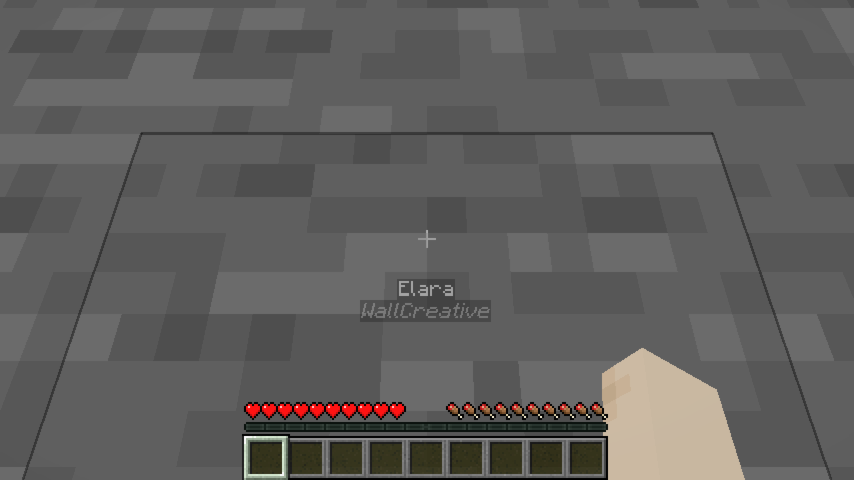
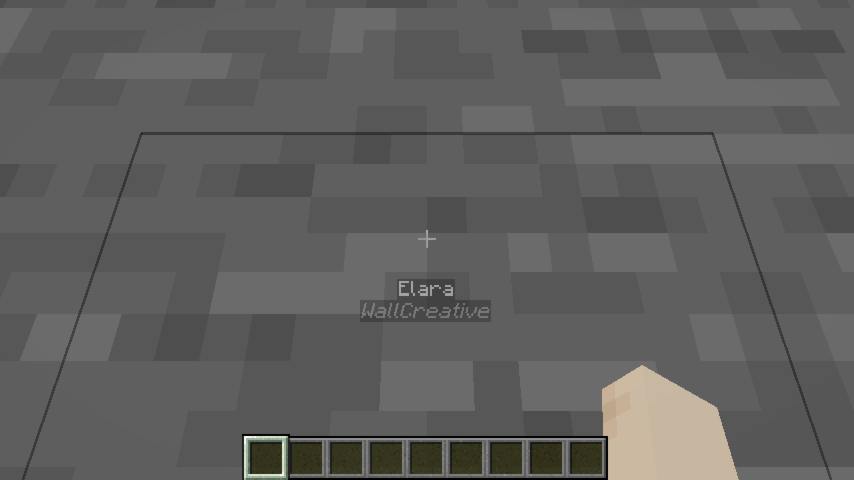
🐛 Corriger le mode Creative dans le test de nametag
Utiliser changeGameMode() côté serveur + waitFor(abilities.creativeMode)
pour s'assurer que le HUD et les abilities sont correctement mis à jour
côté client avant le screenshot, plutôt que de setter creativeMode
directement (qui ne mettait pas à jour le HUD).

Changed region(s): [[0.274, 0.8125, 0.7307, 0.9062], [0.7002, 0.7188, 0.8525, 0.9062], [0.8525, 0.9062, 0.8829, 1.0]]

diff --git a/src/client/java/net/minecraftfr/roleplaychat/test/client/NameplateOcclusionDisplayTest.java b/src/client/java/net/minecraftfr/roleplaychat/test/client/NameplateOcclusionDisplayTest.java
@@ -14,6 +14,7 @@ import net.minecraft.network.packet.c2s.common.SyncedClientOptions;
 import net.minecraft.server.network.ConnectedClientData;
 import net.minecraft.server.network.ServerPlayerEntity;
 import net.minecraft.util.math.BlockPos;
+import net.minecraft.world.GameMode;
 import net.minecraft.world.GameRules;
 import net.minecraftfr.roleplaychat.nameplate.RpNameClientCache;
 
@@ -125,10 +126,16 @@ public class NameplateOcclusionDisplayTest implements FabricClientGameTest {
                 mock.setPitch(0.0f);
             });
 
-            context.waitTicks(20);
-
-            // Simuler le mode Creative côté client directement
-            context.runOnClient(mc -> mc.player.getAbilities().creativeMode = true);
+            // Passer en Creative via le serveur pour que le HUD et les abilities soient corrects
+            // Les mock players ont des UUIDs cafebabe-*, le joueur local a un UUID différent
+            sp.getServer().runOnServer(server ->
+                server.getPlayerManager().getPlayerList().stream()
+                    .filter(p -> !p.getUuidAsString().startsWith("cafebabe"))
+                    .findFirst()
+                    .ifPresent(p -> p.changeGameMode(GameMode.CREATIVE))
+            );
+            // Attendre que le mode Creative soit effectivement appliqué côté client
+            context.waitFor(mc -> mc.player.getAbilities().creativeMode);
 
             context.runOnClient(mc -> RpNameClientCache.set(UUID_CREATIVE, "Elara"));
             context.waitTicks(5);
